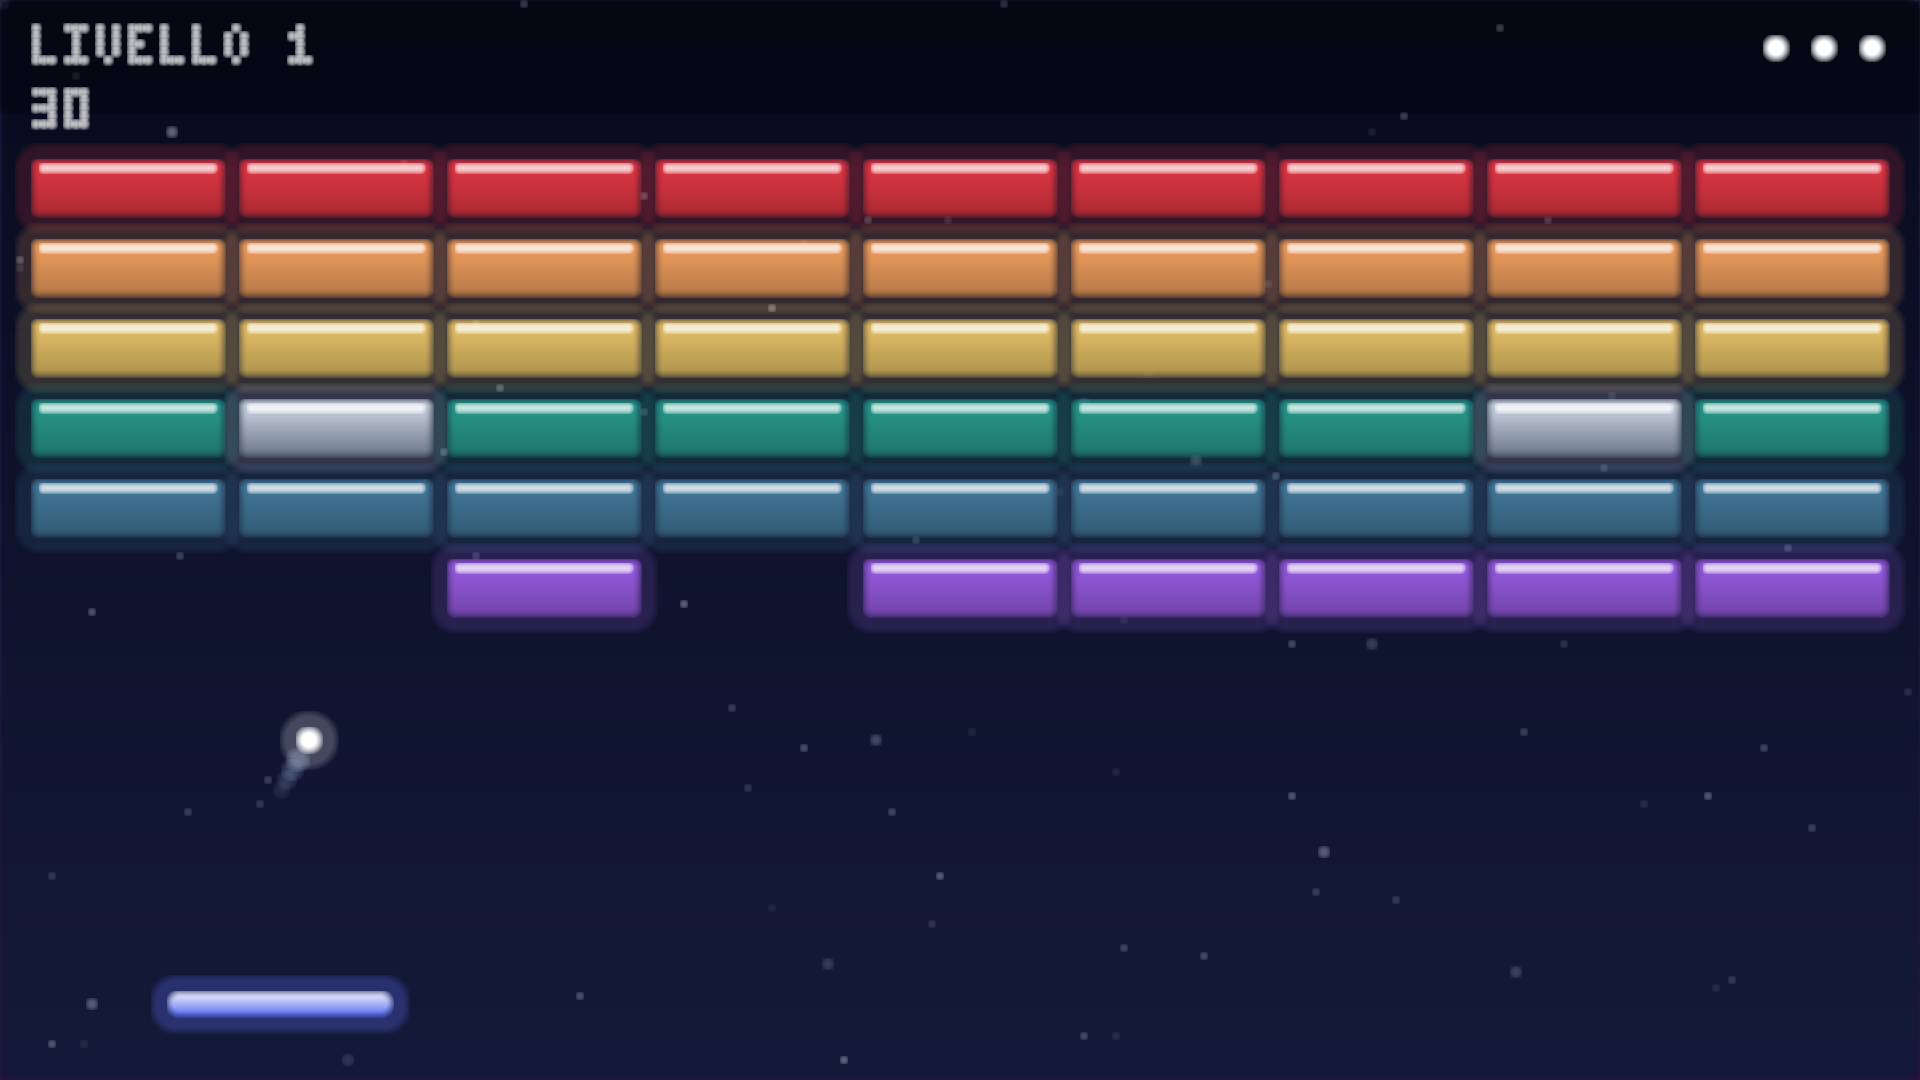
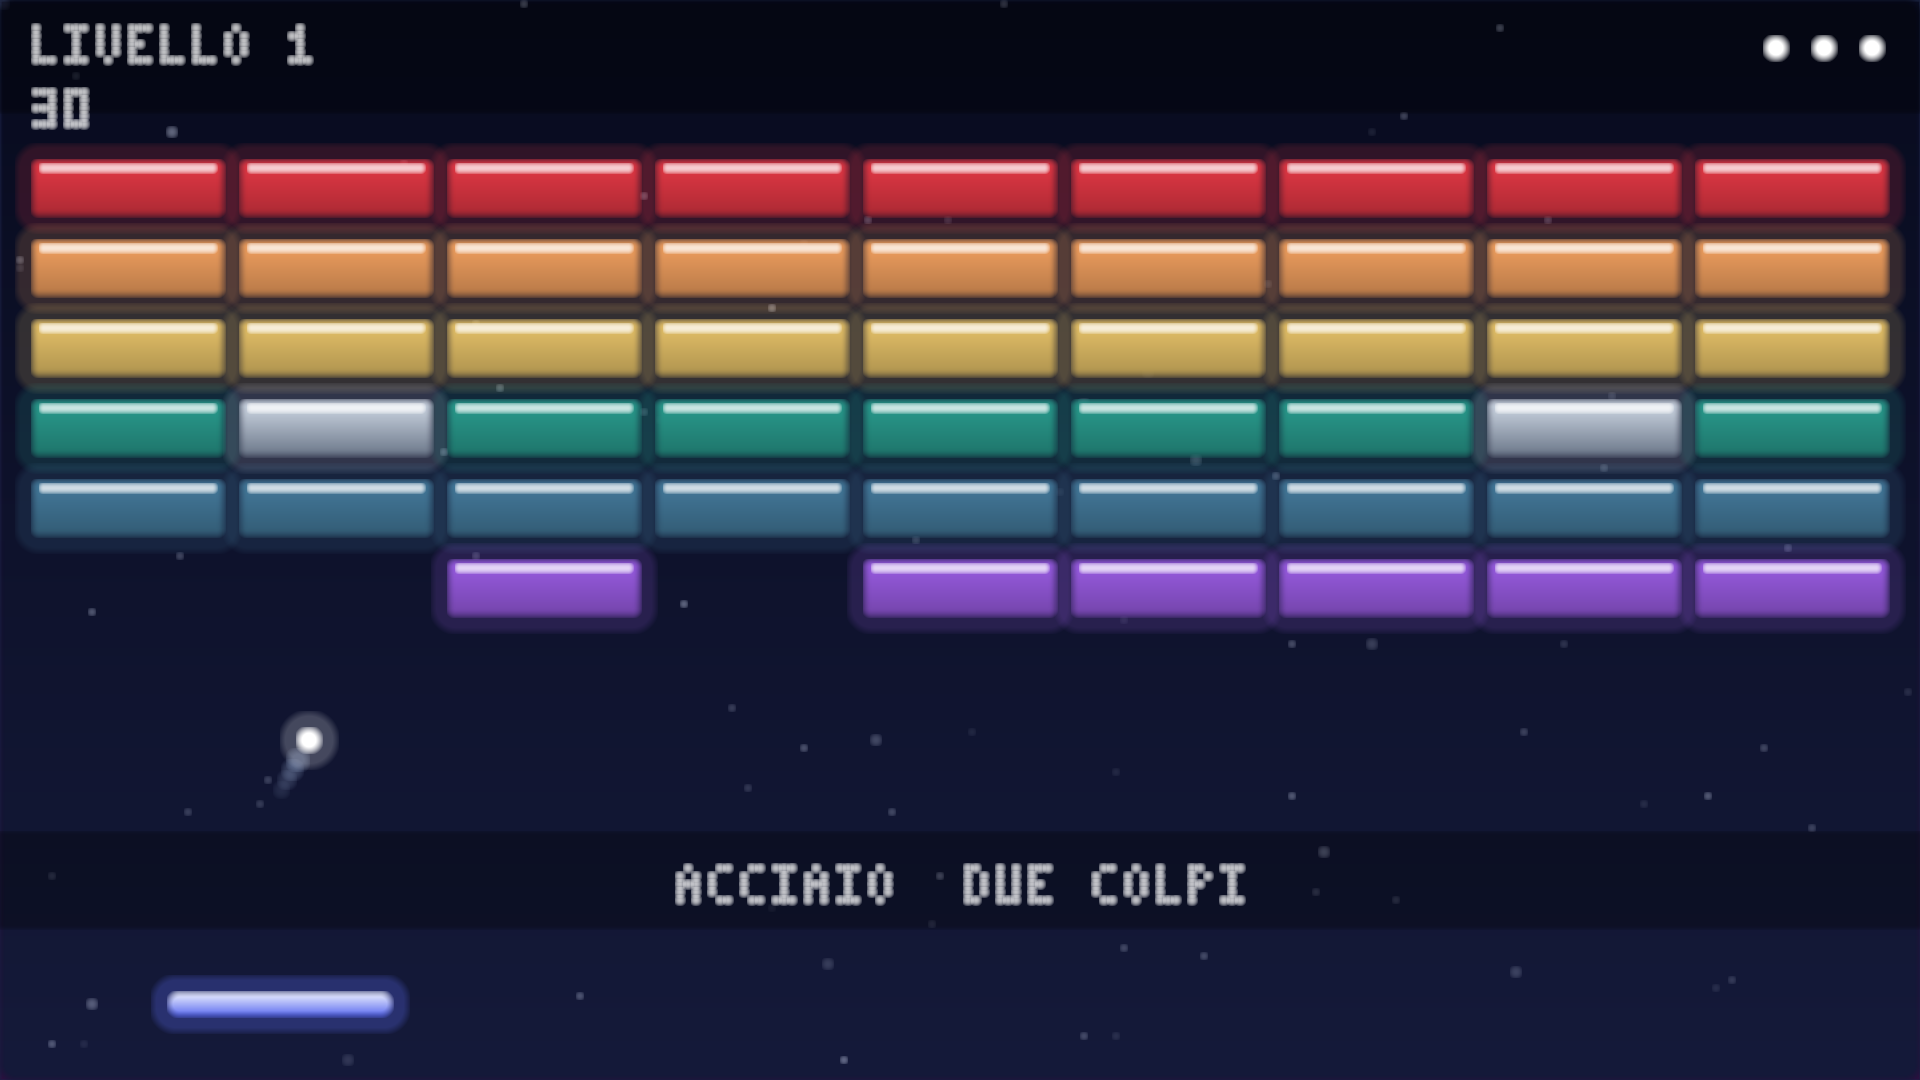
Wilkanoid v2: frame API and in-game tutorial
frame() maps logical input (held left/right, fire and pause edges) onto the
game for any backend, so the platform loop only needs to supply Input values.
First level shows five control and mechanic hints in sequence. Pause test
checks the key edge with real assertions.

Claude-Session: https://claude.ai/code/session_01AVhvvKEf1rvKF1AvUztBjZ

Changed region(s): [[0.5, 0.7944, 0.6562, 0.8556], [0.3438, 0.7944, 0.4688, 0.8556]]

diff --git a/games/wilkanoid/src/lib.rs b/games/wilkanoid/src/lib.rs
@@ -36,6 +36,8 @@ const DROP_V: i32 = 8;
 const WIDE_TICKS: u32 = 600;
 const LOST_TICKS: u32 = 60;
 const FLASH_TICKS: u8 = 6;
+/// Durata del tutorial al primo livello: cinque suggerimenti di 120 tick.
+pub const TUT_TICKS: u32 = 600;
 
 pub const EMPTY: u8 = 0;
 pub const NORMAL: u8 = 1;
@@ -78,6 +80,15 @@ pub enum Cmd {
     Fire,
     /// Pausa on/off (in gioco).
     Pause,
+}
+
+/// Tasti logici di un frame. Ogni backend (GBA, framebuffer, simulatore) li mappa qui.
+#[derive(Clone, Copy, Default, PartialEq, Eq, Debug)]
+pub struct Input {
+    pub left: bool,
+    pub right: bool,
+    pub fire: bool,
+    pub pause: bool,
 }
 
 /// Palla, in subunità (posizione del centro, velocità per tick; y negativo = su).
@@ -131,6 +142,8 @@ pub struct Game {
     pub launch: bool,
     /// Pausa: il tempo è fermo, la scena resta visibile.
     pub paused: bool,
+    /// Tick del tutorial al primo livello (si ferma a `TUT_TICKS`).
+    pub tut: u32,
     timer: u32,
     rng: u32,
 }
@@ -154,6 +167,7 @@ impl Game {
             shake: 0,
             launch: false,
             paused: false,
+            tut: 0,
             timer: 0,
             rng: seed | 1,
         };
@@ -221,6 +235,9 @@ impl Game {
     pub fn tick(&mut self) {
         if self.paused {
             return;
+        }
+        if self.level == 0 && self.tut < TUT_TICKS && matches!(self.phase, Phase::Ready | Phase::Play) {
+            self.tut += 1;
         }
         match self.phase {
             Phase::Ready => {
@@ -540,6 +557,24 @@ impl Game {
     }
 }
 
+/// Un frame: applica l'input (tasti tenuti per la racchetta, fronti per fuoco e pausa), avanza di un tick.
+/// Il disegno è a carico del chiamante (`render::render`). Nessun backend è richiesto qui.
+pub fn frame(g: &mut Game, now: Input, prev: Input) {
+    if now.left {
+        g.input(Cmd::Left);
+    }
+    if now.right {
+        g.input(Cmd::Right);
+    }
+    if now.fire && !prev.fire {
+        g.input(Cmd::Fire);
+    }
+    if now.pause && !prev.pause {
+        g.input(Cmd::Pause);
+    }
+    g.tick();
+}
+
 /// Giocatore automatico: segue la palla di riferimento e lancia. Serve per i test e gli screenshot.
 pub fn autoplay(g: &mut Game) {
     match g.phase {
@@ -592,6 +627,25 @@ mod tests {
         }
         assert_eq!(g.phase, Phase::Over);
         assert_eq!(g.lives, 0);
+    }
+
+    #[test]
+    fn held_left_moves_paddle_and_pause_edge_works() {
+        let mut g = Game::at_level(1, 0);
+        let hold = Input { left: true, ..Input::default() };
+        let start = g.paddle;
+        frame(&mut g, hold, Input::default());
+        assert!(g.paddle < start);
+        g.input(Cmd::Fire); // Ready -> Play, la pausa vale solo in gioco
+        let p = Input { pause: true, ..Input::default() };
+        frame(&mut g, p, Input::default());
+        assert!(g.paused);
+        // Il tasto tenuto non ripete il fronte: resta in pausa.
+        frame(&mut g, p, p);
+        assert!(g.paused);
+        frame(&mut g, Input::default(), p);
+        frame(&mut g, p, Input::default());
+        assert!(!g.paused);
     }
 
     #[test]

diff --git a/games/wilkanoid/src/render.rs b/games/wilkanoid/src/render.rs
@@ -2,7 +2,7 @@
 //! Coordinate logiche -> pixel con scala uniforme (letterbox).
 
 use crate::{
-    Game, Phase, BALL_R, BGX, BGY, BH, BW, BOMB, BX0, BY0, COLS, CRACKED, DROP_MULTI, EMPTY, NORMAL, PAD_H, PAD_Y, PH, PW, ROWS, SUB, TRAIL,
+    Game, Phase, TUT_TICKS, BALL_R, BGX, BGY, BH, BW, BOMB, BX0, BY0, COLS, CRACKED, DROP_MULTI, EMPTY, NORMAL, PAD_H, PAD_Y, PH, PW, ROWS, SUB, TRAIL,
 };
 
 const BG_T: u32 = 0xFF0E1433;
@@ -395,6 +395,14 @@ pub fn render(g: &Game, px: &mut [u32], w: usize, h: usize) {
         c.disc(x, 6.0, 1.5, BALL);
     }
 
+    // Tutorial al primo livello: un suggerimento ogni 120 tick, sopra la racchetta.
+    if g.level == 0 && g.tut < TUT_TICKS && matches!(g.phase, Phase::Ready | Phase::Play) {
+        let lines: [&[u8]; 5] = [b"A D MUOVI LA RACCHETTA", b"SPAZIO LANCIA LA PALLA", b"ACCIAIO: DUE COLPI", b"ESPLOSIVO: ROMPE I VICINI", b"P PAUSA"];
+        let line = lines[((g.tut / 120) as usize).min(lines.len() - 1)];
+        c.rr_a(-3.0, 104.0, pw + 3.0, 116.0, 0.5, 0xFF000000, 0xFF000000, 0.4);
+        c.text_c(line, 108.0, 1.0, TXT);
+    }
+
     if g.paused {
         c.rr_a(-1.0, -1.0, pw + 1.0, ph + 1.0, 0.5, 0xFF000000, 0xFF000000, 0.5);
         c.panel(90.0, 56.0, 150.0, 80.0);
@@ -411,9 +419,6 @@ pub fn render(g: &Game, px: &mut [u32], w: usize, h: usize) {
         }
         Phase::Ready => {
             c.text_c(b"PREMI SPAZIO", 96.0, 1.0, TXT);
-            if g.level == 0 && g.score == 0 {
-                c.text_c(b"A D MUOVI  P PAUSA", 106.0, 1.0, TXT);
-            }
         }
         Phase::Lost => {
             c.panel(60.0, 50.0, 180.0, 80.0);
